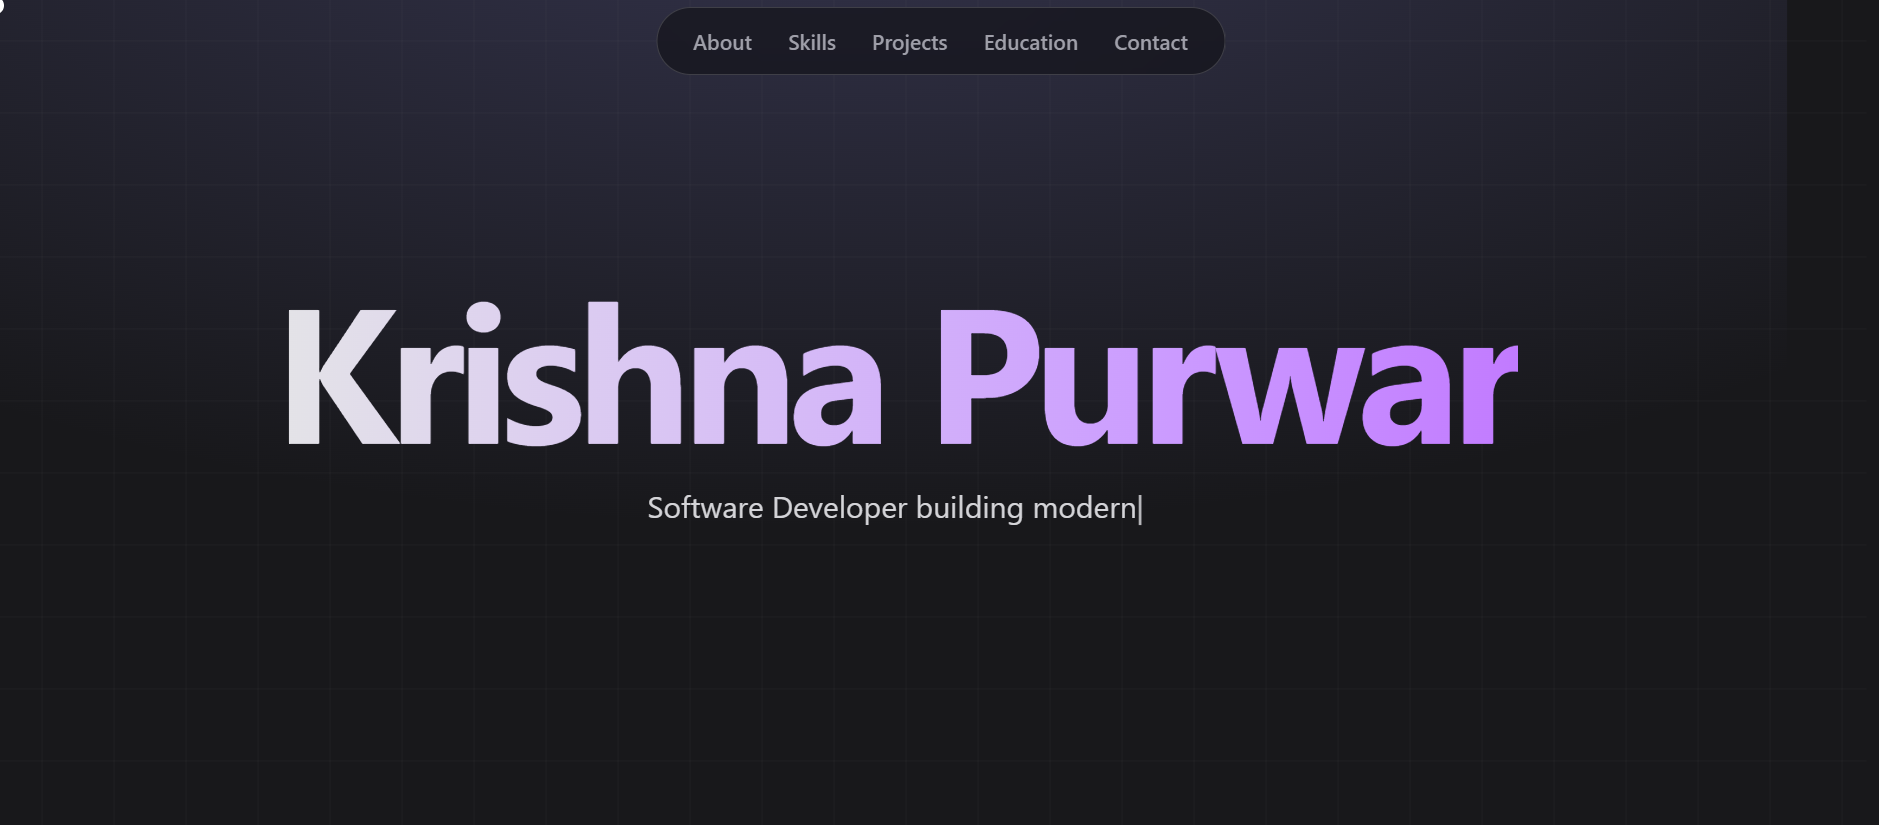
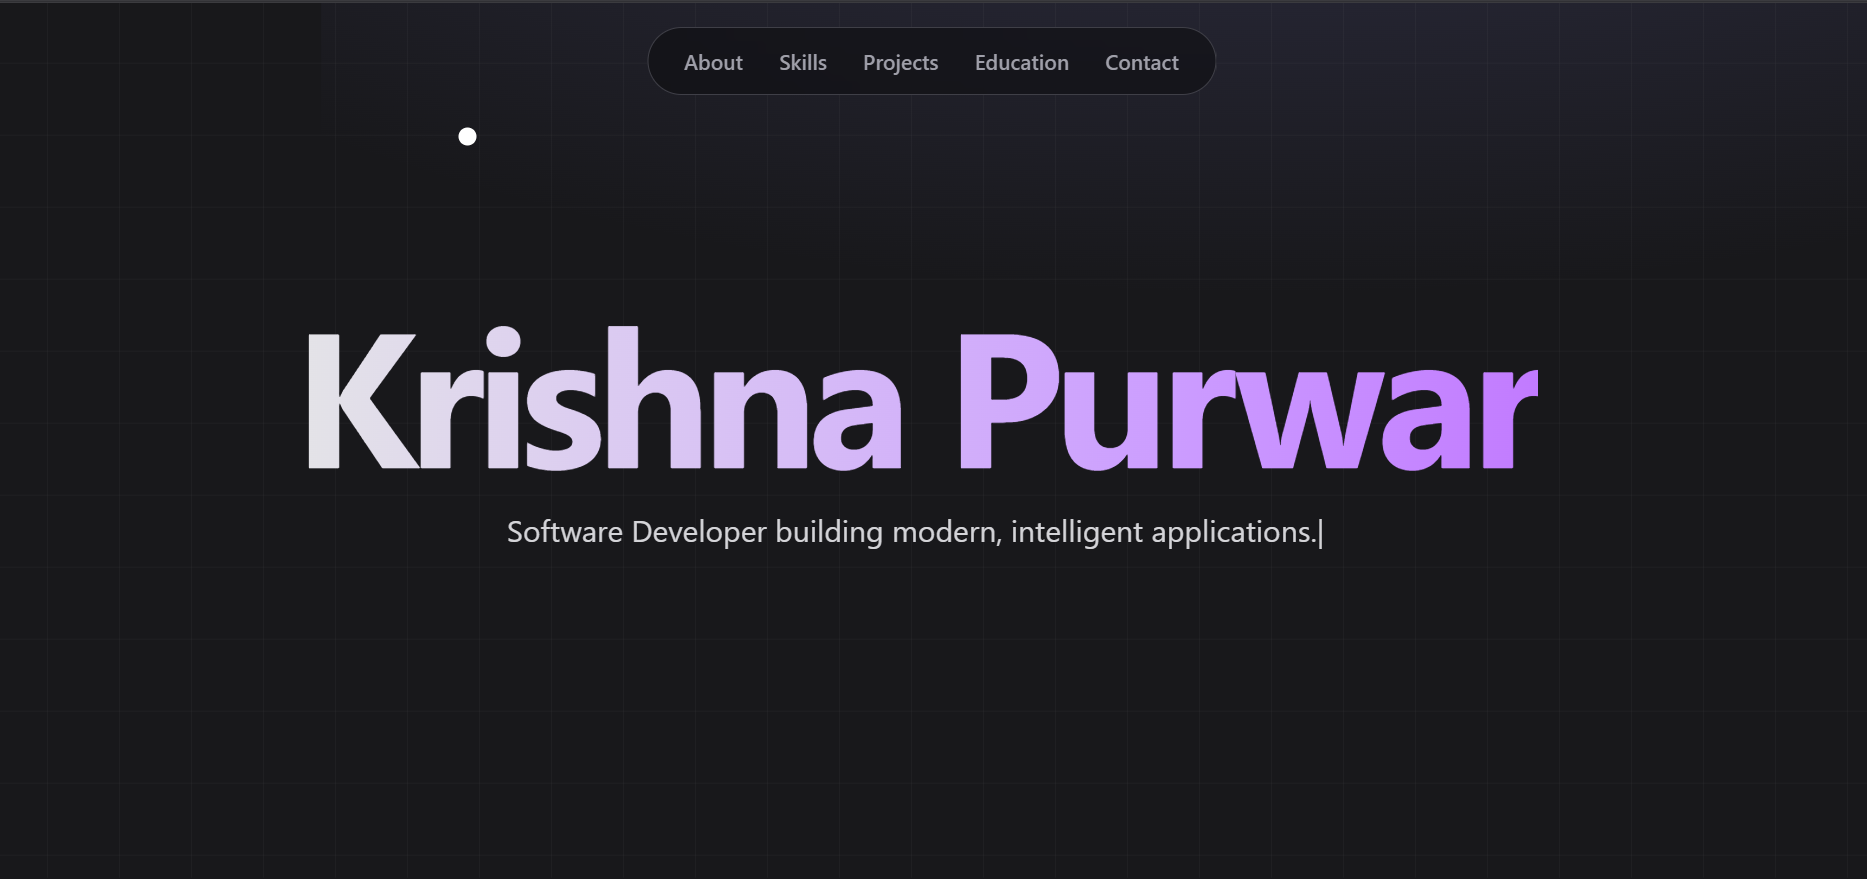
Again make some changes with Hero Section.

diff --git a/components/portfolioComponents/Hero.tsx b/components/portfolioComponents/Hero.tsx
@@ -7,33 +7,48 @@ import { motion, useMotionValue, useTransform } from "framer-motion";
 
 const TAGLINES = [
   "Software Developer building modern, intelligent applications.",
-  "First Year MCA Student at NIT Jamshedpur.",
+  "First Year MCA Student at NIT Jamshedpur."
 ];
 
+// NEW: Static tagline for mobile
+const MOBILE_TAGLINE =
+  "Software Developer building modern, intelligent applications.";
+
 const Hero = () => {
-  //Typer motion logic data.
+  //
+  // YOUR EXISTING TYPING LOGIC
+  //
   const [taglineIndex, setTaglineIndex] = useState(0);
   const [currentTagline, setCurrentTagline] = useState(TAGLINES[0]);
   const [displayedTagline, setDisplayedTagline] = useState("");
   const [isDeleting, setIsDeleting] = useState(false);
 
+  //
+  // NEW: Check for touch device to disable parallax AND typing on mobile
+  //
+  const [isTouchDevice, setIsTouchDevice] = useState(false);
   useEffect(() => {
+    if (typeof window !== "undefined" && "ontouchstart" in window) {
+      setIsTouchDevice(true);
+    }
+  }, []);
+
+  useEffect(() => {
+    // Stop the typing effect on touch devices
+    if (isTouchDevice) return;
+
     const typingSpeed = isDeleting ? 50 : 100;
     const delay = isDeleting ? 1000 : 2000;
 
     const type = () => {
       if (isDeleting) {
-        setDisplayedTagline(
-          currentTagline.substring(0, displayedTagline.length - 1)
-        );
+        setDisplayedTagline(currentTagline.substring(0, displayedTagline.length - 1));
         if (displayedTagline === "") {
           setIsDeleting(false);
           setTaglineIndex((prev) => (prev + 1) % TAGLINES.length);
         }
       } else {
-        setDisplayedTagline(
-          currentTagline.substring(0, displayedTagline.length + 1)
-        );
+        setDisplayedTagline(currentTagline.substring(0, displayedTagline.length + 1));
         if (displayedTagline === currentTagline) {
           setTimeout(() => setIsDeleting(true), delay);
         }
@@ -43,54 +58,53 @@ const Hero = () => {
     const timer = setTimeout(type, typingSpeed);
 
     return () => clearTimeout(timer);
-  }, [displayedTagline, isDeleting, currentTagline, taglineIndex]);
+    // Add isTouchDevice as a dependency
+  }, [displayedTagline, isDeleting, currentTagline, taglineIndex, isTouchDevice]);
 
   useEffect(() => {
+    if (isTouchDevice) return;
     setCurrentTagline(TAGLINES[taglineIndex]);
-  }, [taglineIndex]);
+  }, [taglineIndex, isTouchDevice]);
+  //
+  // END OF TYPING LOGIC
+  //
 
-  const x = useMotionValue(0);
-  const y = useMotionValue(0);
+  //
+  // 3D PARALLAX LOGIC (Corrected for Centering)
+  //
+  const x = useMotionValue(0.5); // Start at 0.5 (center)
+  const y = useMotionValue(0.5); // Start at 0.5 (center)
 
-  // 2. Create transformed values for each layer.
-  const textX = useTransform(x, [0, 1000], [-30, 30]);
-  const textY = useTransform(y, [0, 1000], [-20, 20]);
-  const gridX = useTransform(x, [0, 1000], [-15, 15]);
-  const gridY = useTransform(y, [0, 1000], [-10, 10]);
+  // Map the 0-1 range to a pixel movement range (e.g., -15px to 15px)
+  const textX = useTransform(x, [0, 1], [-30, 30]);
+  const textY = useTransform(y, [0, 1], [-20, 20]);
+  const gridX = useTransform(x, [0, 1], [-15, 15]);
+  const gridY = useTransform(y, [0, 1], [-10, 10]);
 
-  // 3. Handler to update motion values on mouse move
   const handleMouseMove = (e: React.MouseEvent) => {
-    // We use clientX/Y to get the mouse position relative to the viewport
-    x.set(e.clientX);
-    y.set(e.clientY);
+    // Get mouse position as a 0-1 ratio of the screen width/height
+    x.set(e.clientX / window.innerWidth);
+    y.set(e.clientY / window.innerHeight);
   };
-
-  // Check for touch device to disable parallax on mobile
-  const [isTouchDevice, setIsTouchDevice] = useState(false);
-  useEffect(() => {
-    if (typeof window !== "undefined" && "ontouchstart" in window) {
-      setIsTouchDevice(true);
-    }
-  }, []);
-
-  // End of Parallax Logic
+  //
+  // END OF PARALLAX LOGIC
+  //
 
   return (
     <section
       id="home"
       className="relative flex h-screen w-full flex-col items-center justify-center overflow-hidden"
-      // 4. Listen for mouse movement on the whole section
-
+      // Listen for mouse movement
       onMouseMove={!isTouchDevice ? handleMouseMove : undefined}
     >
       {/* Background Grid */}
-      {/* 5. Converted to motion.div and added style/transition props */}
       <motion.div
         className={cn(
           "absolute inset-0 -z-10 h-full w-full",
           "animate-grid-flow bg-[linear-gradient(to_right,#80808012_1px,transparent_1px),linear-gradient(to_bottom,#80808012_1px,transparent_1px)]",
           "bg-size-[3rem_3rem]"
         )}
+
         style={
           !isTouchDevice
             ? {
@@ -103,9 +117,9 @@ const Hero = () => {
       />
 
       {/* Center Content */}
-      {/* 6. Converted to motion.div and added style/transition props */}
       <motion.div
         className="container relative z-10 flex flex-col items-center justify-center px-4 md:px-6"
+
         style={
           !isTouchDevice
             ? {
@@ -118,23 +132,32 @@ const Hero = () => {
       >
         <h1
           className={cn(
-            // The font-mono class is correct
             "font-mono text-5xl font-bold tracking-tighter text-white sm:text-7xl md:text-8xl lg:text-9xl",
             "bg-linear-to-r from-primary via-purple-400 to-primary",
             "animate-text-shine bg-size-[200%_auto] bg-clip-text text-transparent",
-            "text-center"
+            "text-center" // Ensures it's centered
           )}
         >
           Krishna Purwar
         </h1>
-        <p className="mt-4 max-w-[700px] text-center text-lg text-zinc-300 md:text-xl">
-          {/* This will now be powered by the typing logic */}
-          {displayedTagline}
-          <span className="animate-pulse">|</span>
-        </p>
+
+        {/*  Conditionally render the tagline
+          - On mobile: Show a simple, static tagline
+          - On desktop: Show the full typing animation
+        */}
+        {isTouchDevice ? (
+          <p className="mt-4 max-w-[700px] text-center text-lg text-zinc-300 md:text-xl">
+            {MOBILE_TAGLINE}
+          </p>
+        ) : (
+          <p className="mt-4 max-w-[700px] text-center text-lg text-zinc-300 md:text-xl">
+            {displayedTagline}
+            <span className="animate-pulse">|</span>
+          </p>
+        )}
       </motion.div>
 
-      {/* S-Wave SVG */}
+      {/* S-Wave SVG  */}
       <div className="absolute bottom-0 left-0 w-full overflow-hidden leading-none">
         <div
           className="relative flex w-[200%] animate-[wave-horizontal-flow_10s_linear_infinite]"
@@ -153,7 +176,7 @@ const Hero = () => {
             ></path>
           </svg>
           <svg
-            className="h-auto w-12"
+            className="h-auto w-1/2"
             viewBox="0 0 1440 100"
             fill="none"
             xmlns="http://www.w3.org/2000/svg"
